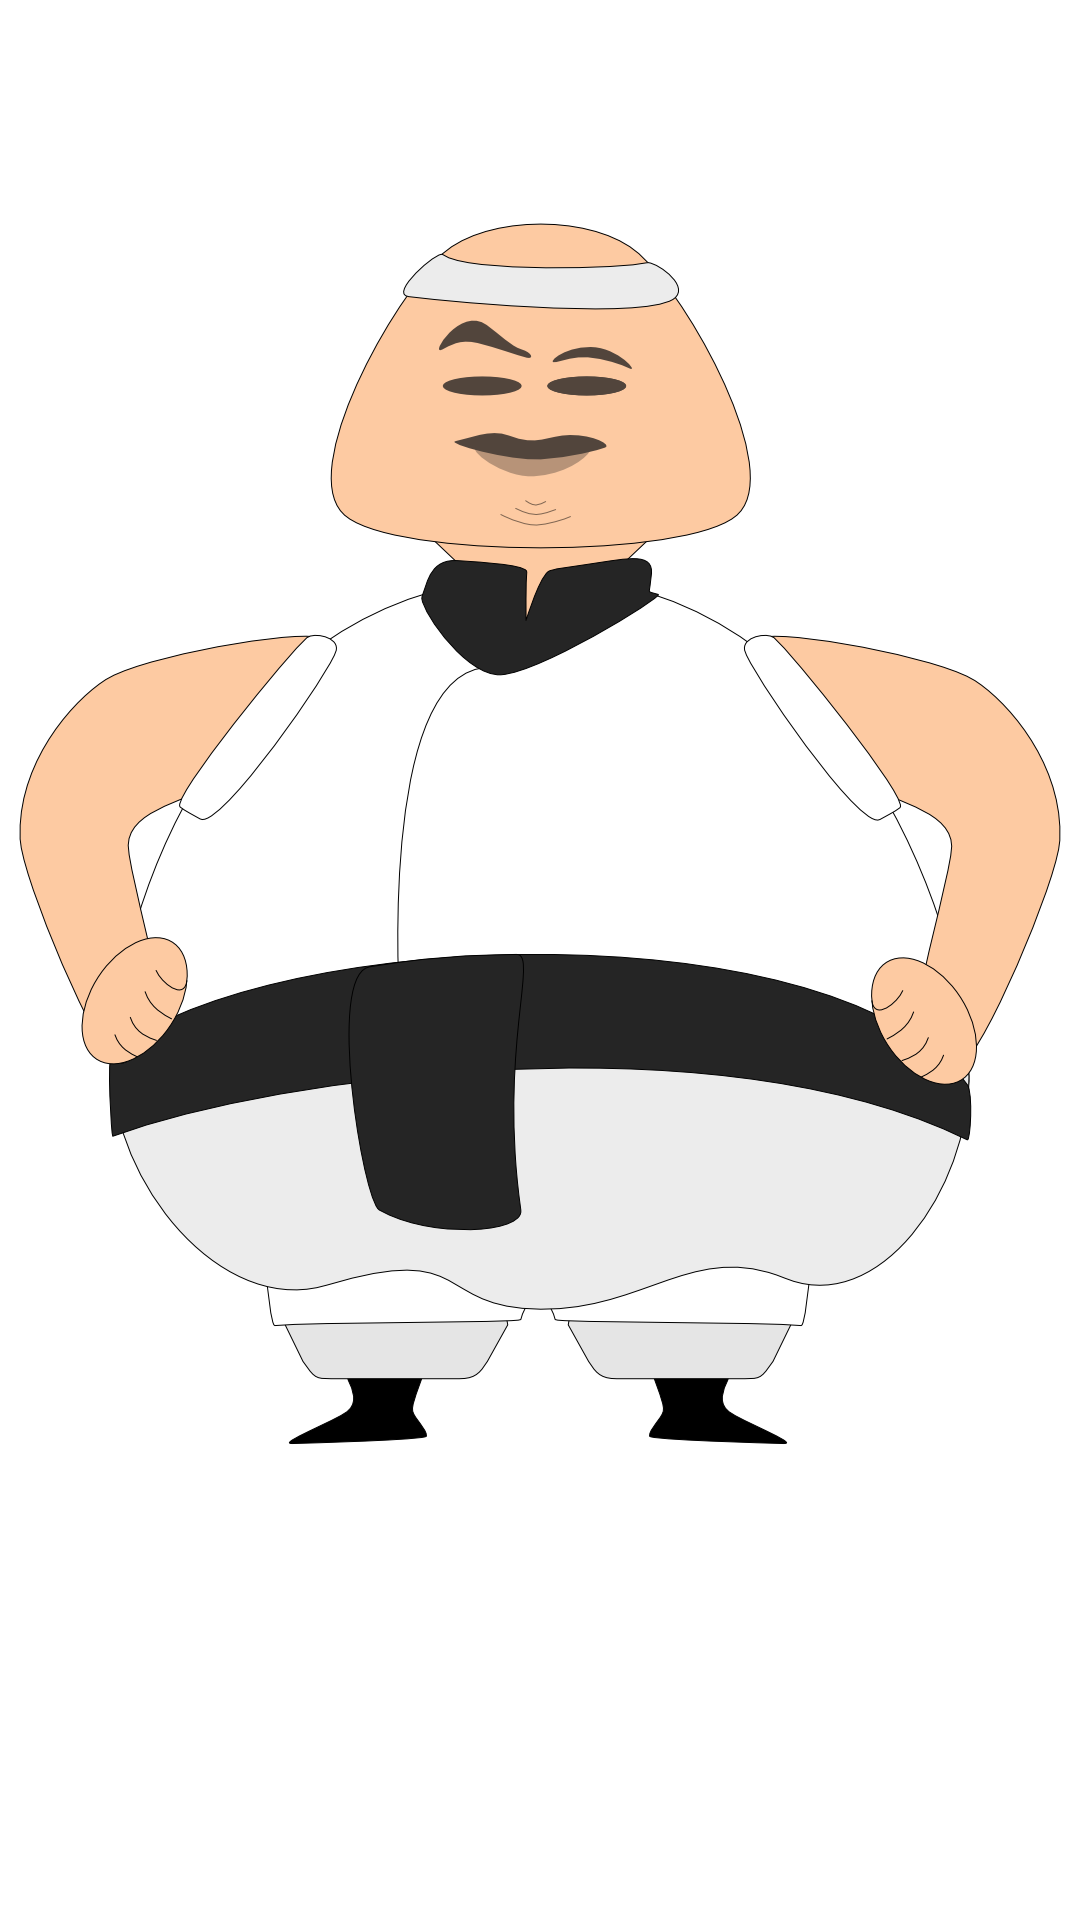
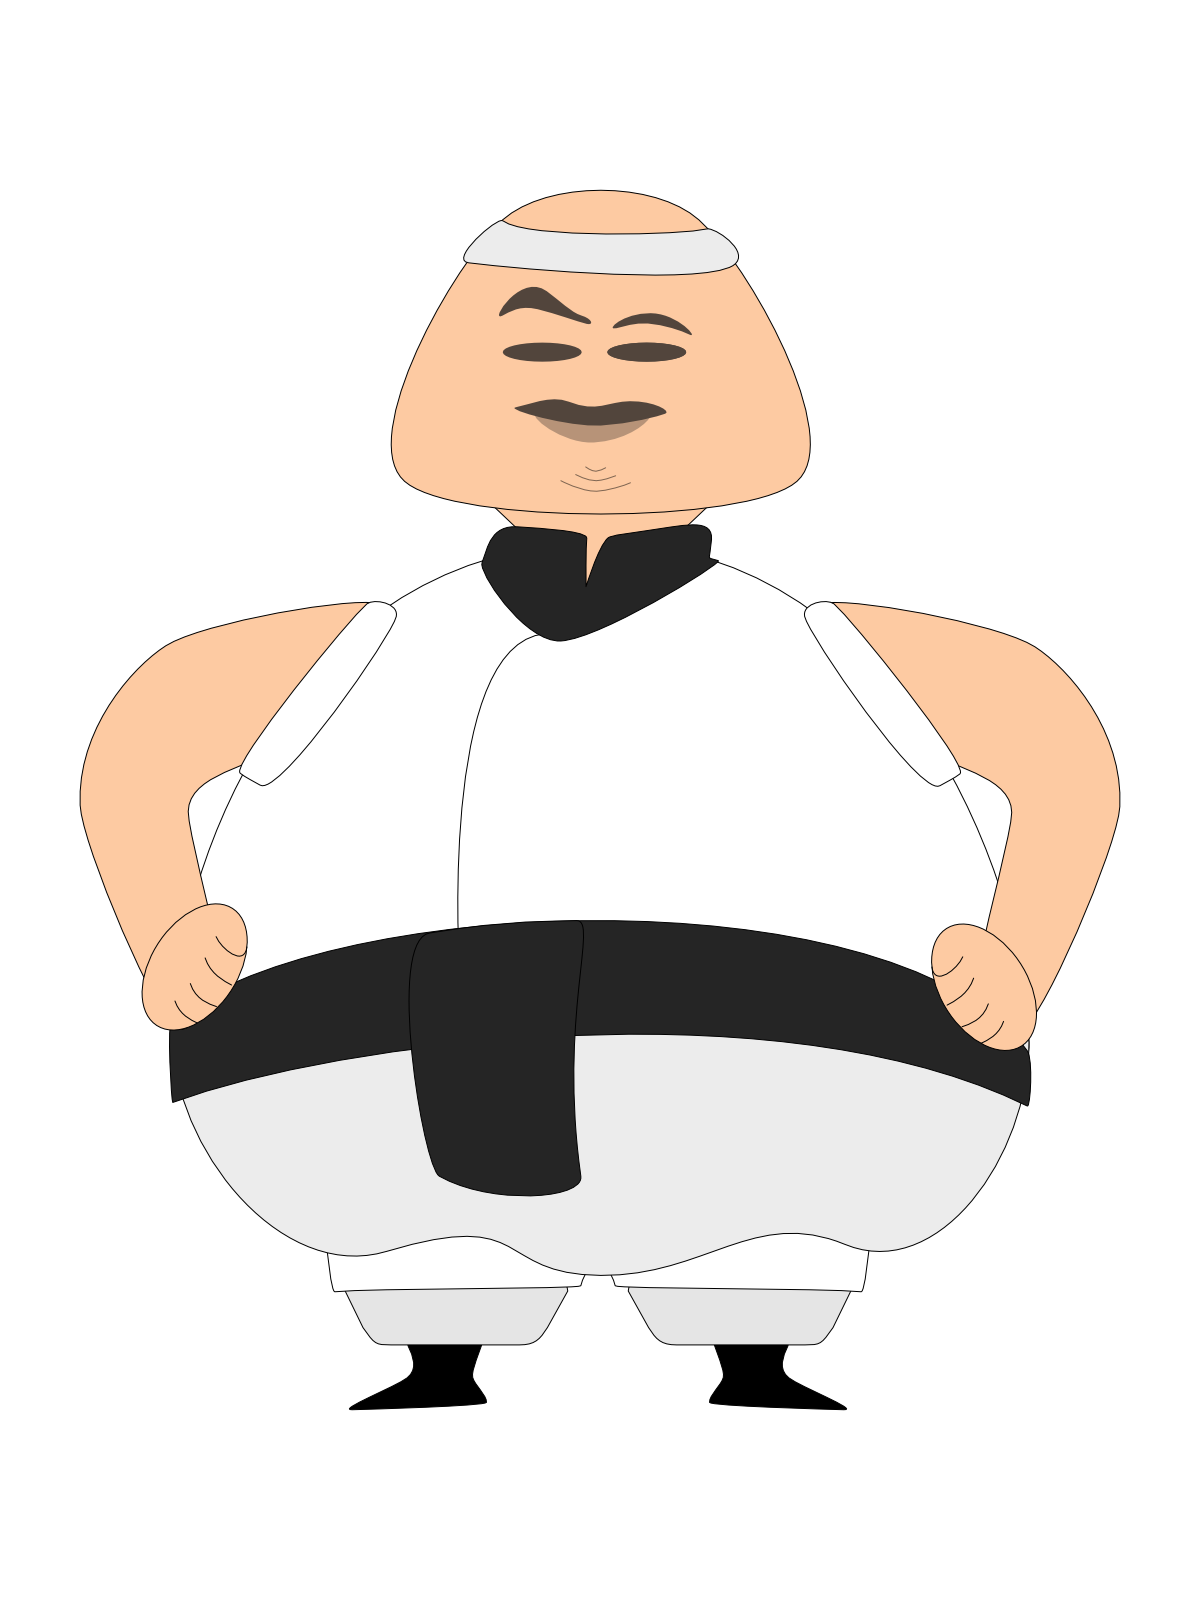
fixed a bug and resized sumo

diff --git a/AlgoKueche/src/hilfsklassen/gui/CommentPanel.java b/AlgoKueche/src/hilfsklassen/gui/CommentPanel.java
@@ -51,7 +51,9 @@ public class CommentPanel extends JPanel {
                 note = note.split("\\(")[0];
             }
             // first Letter to uppercase
-            note = note.substring(0, 1).toUpperCase() + note.substring(1);
+            if (note.length() > 1) {
+                note = note.substring(0, 1).toUpperCase() + note.substring(1);
+            }
             str += "     \t" + note;
         }
         return str;

diff --git a/AlgoKueche/src/hilfsklassen/gui/GUI.java b/AlgoKueche/src/hilfsklassen/gui/GUI.java
@@ -21,6 +21,8 @@ public class GUI {
 
 	// GUI Main
 	public static void main(String args[]) {
+        MainFrame.pathToAlgoKueche = "C:/Users/Karol/proj/AlgoKueche/AlgoKueche/src/hilfsklassen/";
+        //MainFrame.pathToAlgoKueche = "D:/XData/Dokumente/Ausbildung/Uni/7.Semester/Studienbegl Praktikum/AlgoKueche/AlgoKueche/src/hilfsklassen/";
 		GUI g = startGUI();
 		g.slideShow();
 	}
